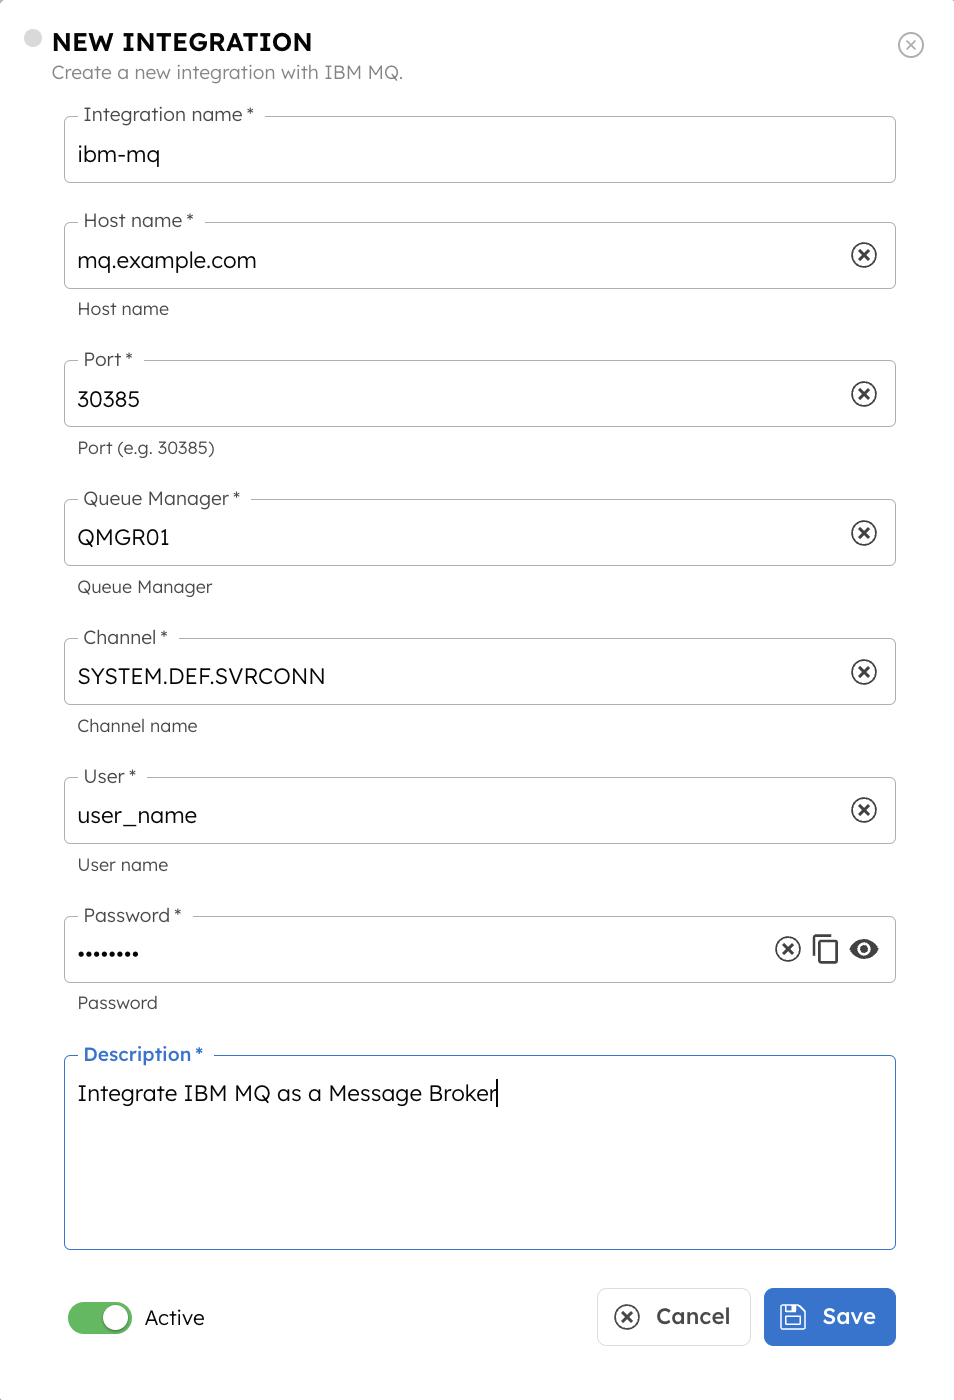
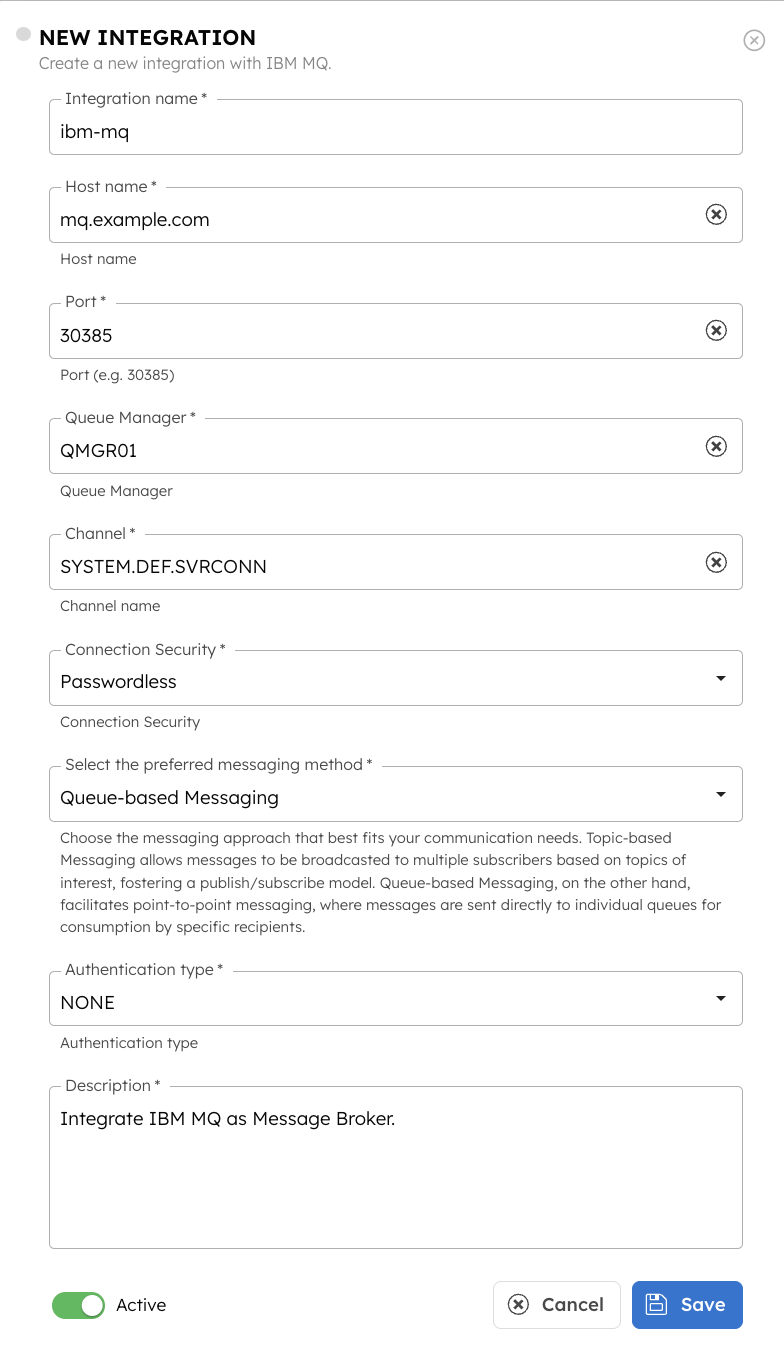
IBM MQ Updates
- The support for different messaging methods & Cipher Suite

diff --git a/docs/integrations/message-broker/ibm-mq.md b/docs/integrations/message-broker/ibm-mq.md
@@ -28,8 +28,15 @@ Once you have the required configuration credentials from IBM MQ, let’s integr
 | Port | The port number on which the IBM MQ server is configured to listen for incoming connections. The default port for IBM MQ is 1414, but it usually varies with the required connection. |
 | Queue Manager | Specify the queue manager to which Orkes Conductor will connect.<br/><br/>The queue manager should already be configured in your IBM MQ environment. Check out IBM MQ’s official documentation on [configuring queue manager](https://www.ibm.com/docs/en/ibm-mq/9.3?topic=configuring-creating-queue-managers-multiplatforms). | 
 | Channel | IBM MQ uses channels to establish connections between clients and queue managers. Specify the channel name the Conductor will use to communicate with IBM MQ. |
-| User | The username to authenticate the connection with the IBM MQ server. |
-| Password | The password associated with the username to authenticate the connection with the IBM MQ server. |
+| Connection Security | Choose the required connection security type. It can take the following values:<ul><li>With Username/Password</li><li>Passwordless</li></ul> | 
+| User | The username to authenticate the connection with the IBM MQ server.<br/><br/>**Note**: This field is applicable only if **_Connection Security_** is chosen as **_With Username/Password_**. |
+| Password | The password associated with the username to authenticate the connection with the IBM MQ server.<br/><br/>**Note**: This field is applicable only if **_Connection Security_** is chosen as **_With Username/Password_**. |
+| Select the preferred messaging method | Choose the messaging approach that suits your communication needs. It can be of the following types:<ul><li>**Topic-based Messaging** -  Allows messages to be broadcasted to multiple subscribers based on the topics of interest, fostering a publish/subscribe model.</li><li>**Queue-based Messaging** -  Allows point-to-point messaging, where messages are sent directly to individual queues for consumption by specific recipients.</li></ul> |
+| Topic String | Used to define the criteria for selecting topics in the messaging system. Allows you to specify patterns that match topics of interest. For example, entering ‘finance/’ would subscribe you to all topics under the ‘finance’ category. <br/><br/>**Note**: This field is applicable for **Topic-based Messaging**. | 
+| Authentication type | Choose the required authentication type. It can take the following values:<ul><li>**NONE**</li><li>**JKS**</li></ul> |
+| Choose Trust Store file | If the authentication is chosen as **JKS**, upload the Java JKS trust store file with CAs. | 
+| Password | Provide the password for the trust store. |
+| Cipher Suite | A Cipher Suite encompasses a set of algorithms ensuring encryption, key exchange, authentication, and data integrity for secure network communications. Choose the suitable Cipher Suite from the following options:<ul><li>TLS_RSA_WITH_AES_128_CBC_SHA256</li><li>TLS_RSA_WITH_AES_256_CBC_SHA256</li><li>TLS_RSA_WITH_AES_256_GCM_SHA384</li><li>ANY_TLS12</li></ul> | 
 | Description | Provide a description of the integration. | 
 
 5. You can toggle on the **Active** button to activate the integration instantly.
